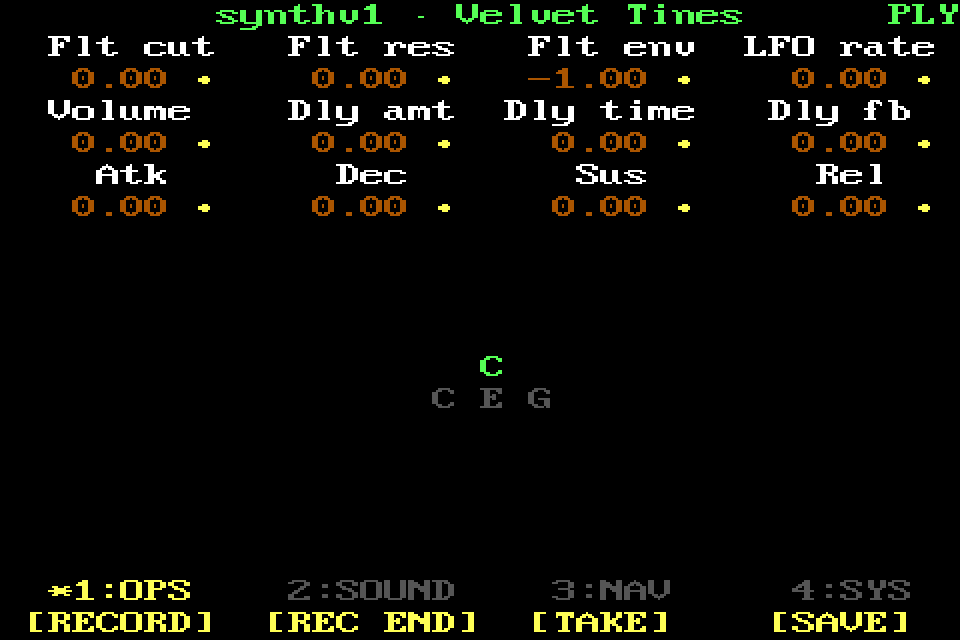
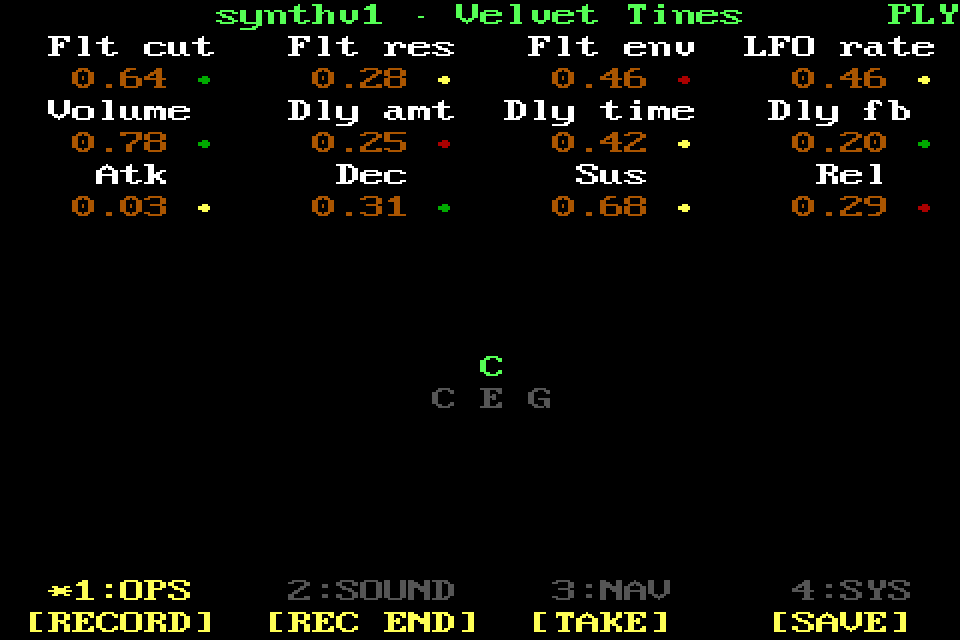
Show loaded synth values in playback screenshot

diff --git a/src/ui.rs b/src/ui.rs
@@ -5146,6 +5146,22 @@ fn configure_screenshot(app: &mut App, screen: Screen) {
             for note in [60, 64, 67] {
                 app.held_notes.observe(&[0x90, note, 100]);
             }
+            let originals = [
+                0.72, 0.28, 0.34, 0.46, 0.82, 0.18, 0.42, 0.31, 0.03, 0.36, 0.68, 0.22,
+            ];
+            let values = [
+                0.64, 0.28, 0.46, 0.46, 0.78, 0.25, 0.42, 0.20, 0.03, 0.31, 0.68, 0.29,
+            ];
+            app.original_values = CONTROLS
+                .iter()
+                .zip(originals)
+                .map(|(control, value)| (control.cc, value))
+                .collect();
+            app.values = CONTROLS
+                .iter()
+                .zip(values)
+                .map(|(control, value)| (control.cc, value))
+                .collect();
             app.status = "Playback to review".into();
         }
         Screen::Tracker => {